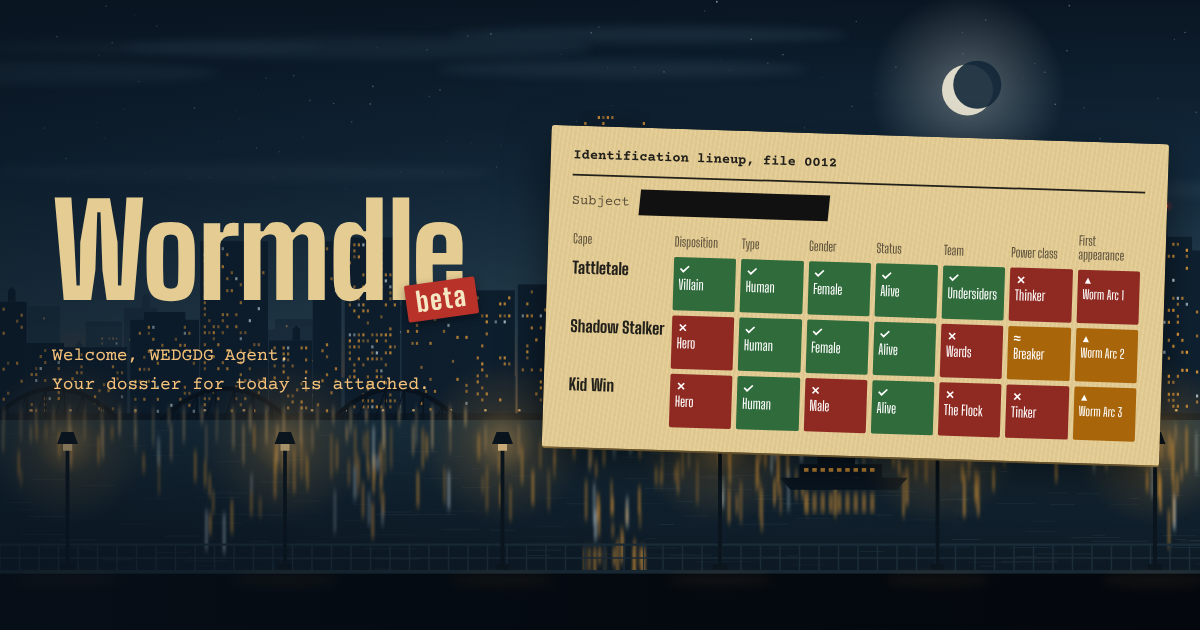
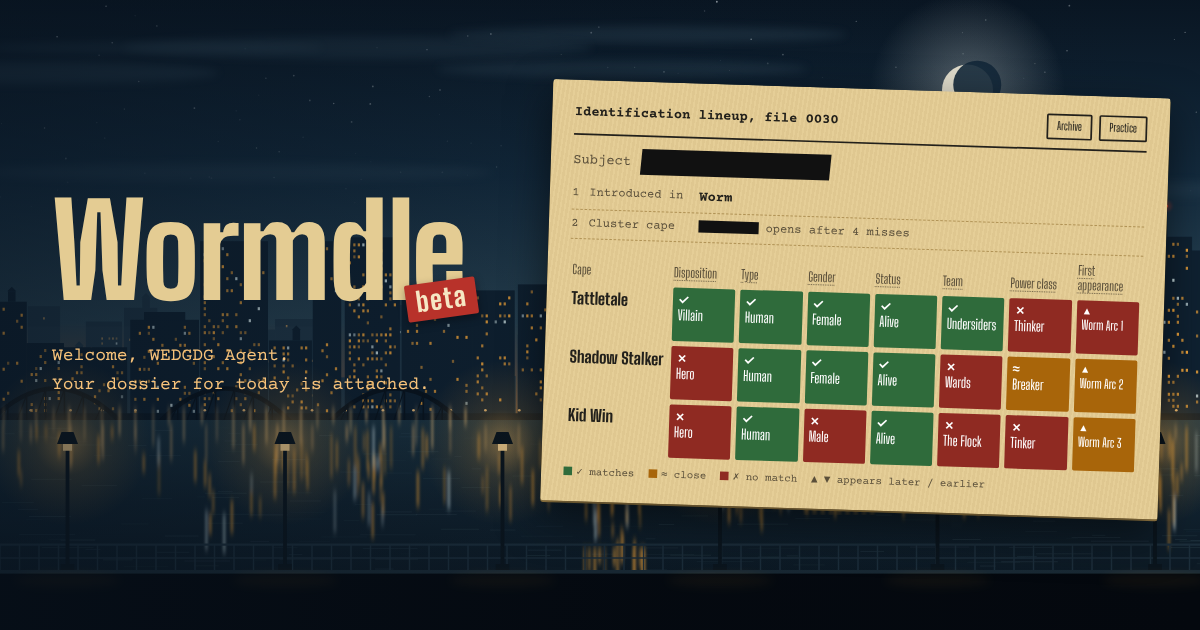
Redraw the link-preview image with the current design
Shows the file header with Archive and Practice buttons, the two Lineup
hint notes (one open, one redacted), dotted tappable column headings,
"Worm Arc" labels with solid arrows, and the legend. Image URL bumped to
?v=4 so Discord and Twitter fetch the new picture.

Changed region(s): [[0.4317, 0.1206, 0.9867, 0.8444], [0.8942, 0.3016, 0.9558, 0.3317], [0.4625, 0.3619, 0.4933, 0.3921]]

diff --git a/site/index.html b/site/index.html
@@ -10,7 +10,7 @@
 <meta property="og:description" content="A daily guessing game for Worm and Ward. Your dossier for today is attached.">
 <meta property="og:type" content="website">
 <meta property="og:site_name" content="Wormdle">
-<meta property="og:image" content="https://www.wormdle.me/assets/og-image.png?v=3">
+<meta property="og:image" content="https://www.wormdle.me/assets/og-image.png?v=4">
 <meta property="og:image:type" content="image/png">
 <meta property="og:image:width" content="1200">
 <meta property="og:image:height" content="630">
@@ -20,7 +20,7 @@
 <meta name="twitter:card" content="summary_large_image">
 <meta name="twitter:title" content="Wormdle">
 <meta name="twitter:description" content="A daily guessing game for Worm and Ward. Your dossier for today is attached.">
-<meta name="twitter:image" content="https://www.wormdle.me/assets/og-image.png?v=3">
+<meta name="twitter:image" content="https://www.wormdle.me/assets/og-image.png?v=4">
 <link rel="icon" href="assets/favicon.svg" type="image/svg+xml">
 <link rel="preload" href="fonts/courier-prime-latin-400-normal.woff2" as="font" type="font/woff2" crossorigin>
 <link rel="preload" href="fonts/big-shoulders-display-latin-800-normal.woff2" as="font" type="font/woff2" crossorigin>

diff --git a/HOSTING_NOTES.md b/HOSTING_NOTES.md
@@ -30,7 +30,7 @@ If you ever turn on Cloudflare's proxy (orange cloud) for these records, set Clo
 ## Link-preview image
 
 The `og:image` and `twitter:image` tags in `site/index.html` load the preview picture from
-`https://www.wormdle.me/assets/og-image.png?v=3`. When you replace the picture, bump the `?v=` number in both tags so
+`https://www.wormdle.me/assets/og-image.png?v=4`. When you replace the picture, bump the `?v=` number in both tags so
 sites fetch the new one. Discord and other sites cache previews, so after changing the
 picture or its tags, test with a new query string on the link, such as `https://www.wormdle.me/?v=3`.
 
